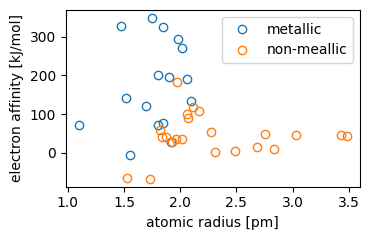
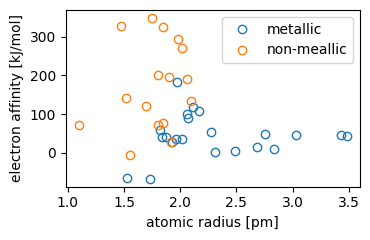
work on MDS-4

diff --git a/MDSdata/MDS4_chemical_elements/dataset.py b/MDSdata/MDS4_chemical_elements/dataset.py
@@ -3,108 +3,188 @@ import numpy as np
 import matplotlib.pyplot as plt
 import os
 from os.path import join
-
-# The absolute path is required when importing this package! Otherwise
-# a wrong relative path is resolved and reading a file from within this
-# script does not work properly. You can see this with
-# `print(os.path.dirname(os.path.abspath(__file__)))`
-p = join(os.path.dirname(os.path.abspath(__file__)), 'element_properties.csv')  
+from MDSdata._bunch import Bunch
 
 
 
+DESCR = """
+MDS-dataset 'MDS-4: Chemical Elements'
+--------------------------------------
 
+**Dataset Characteristics:**
+
+    :Number of Instances: 38 (22 metals and 16 non-metals)
+    :Number of Attributes: 4 numeric, predictive attributes and the class
+    :Attribute Information:
+        - atomic radius [pm]
+        - electron affinity [kJ/mol]
+        - ionization energy [kJ/mol]
+        - electronegativity [-]
+        - class:
+                - non-metalliv (target value = 0)
+                - metallic (target value = 1)
+
+    :Summary Statistics:
+
+    :Missing Attribute Values: None
+
+    :Class Distribution: 22 and 16 examples for 2 classes.
+
+    :Creator: The data file was extracted from the publication:
+        J. J. V. Ferreira, M. T. S. Pinheiro, W. R. S. dos Santos, and
+        R. da Silva Mai: "Graphical representation of chemical periodicity 
+        of main elements through boxplot", Educación Química (2016) 27, 
+        209---216, http://dx.doi.org/10.1016/j.eq.2016.04.007
+
+    :Donor:
+
+    :date May, 2023 
+
+    This dataset contains four periodic properties: atomic radius, electron 
+    affinity, ionization energy and the electronegativity. These properties 
+    were collected for a total of 38 chemical elements (22 metals and 16 
+    non-metals), originally taken from a number of different publicly 
+    available sources.
 """
-The data file was extracted from:
-=================================
-J. J. V. Ferreira, M. T. S. Pinheiro, W. R. S. dos Santos, R. da Silva Mai:
-"Graphical representation of chemical periodicity of main elements through boxplot",
-Educación Química (2016) 27, 209---216
-http://dx.doi.org/10.1016/j.eq.2016.04.007
-
-Description
-===========
-Tabular data for chosen properties of a number of metallic and non-metallic elements
 
 
-Usage:
-
-from MDSbook_utils.MDScode.Datasets.chemical_element_data import dataset
-
-df, features = dataset.pandas_data()
-print(features)
-display(df)
 
 
-X = dataset.numpy_data()
-
-"""
-
-def pandas_data():
-    """Returns a dataframe with the data    
-    """
-    df = pd.read_csv(p)
-    #df.columns = features
-    return df #, df.columns
 
 
-def numpy_data():
+
+
+class MDS4:
     """MDS-dataset 'MDS-4: Chemical Elements'.
     
-    Returns the input matrix X, output vector y and the class mapping
-    for chosen properties of a number of metallic and non-metallic elements.
-    The label y is 0 for non-metals and 1 for metals.
-
-    ### The data file was extracted from the publication:
-    J. J. V. Ferreira, M. T. S. Pinheiro, W. R. S. dos Santos, R. da Silva Mai:
-    "Graphical representation of chemical periodicity of main elements through boxplot",
-    Educación Química (2016) 27, 209---216, 
-    http://dx.doi.org/10.1016/j.eq.2016.04.007
-
-    """
-    df = pandas_data()
-    feature_names = np.array(['atomic_radius', 'electron_affinity', 'ionization energy', 'electronegativity'])
-    X = np.array(df[feature_names])
-    y = np.array(df[['metallic']], dtype=int).flatten()
-
-    return X, y, feature_names
+    The interface of the `data` method has been designed to conform closely
+    with the well-established interface of scikit-learn (see 
+    https://scikit-learn.org/stable/datasets.html). The only difference is
+    that the returned dictionary-like `Bunch` also contains `feature_matrix`,
+    which is an alias for scikit-learn's `data` array/dataframe.
+    """  
+        
+    # The absolute path is required when importing this package! Otherwise
+    # a wrong relative path is resolved and reading a file from within this
+    # script does not work properly. You can see this with
+    # `print(os.path.dirname(os.path.abspath(__file__)))`
+    p = join(os.path.dirname(os.path.abspath(__file__)), 'element_properties.csv')  
 
 
-def data(pandas=False):
-    """MDS-dataset 'MDS-4: Chemical Elements'.
-    
+    def __init__(self) -> None:
+        pass
 
-    Returns the features, labels and the class mapping
-    for chosen properties of a number of metallic and non-metallic elements.
+    @staticmethod
+    def load_data(return_X_y=False, as_frame=False):
+        """MDS-dataset 'MDS-4: Chemical Elements'.
 
-    :params pandas: whether to return numpy or pandas data
-        pandas=False: Returns input matrix X, output vector y and the class mapping
-        pandas=True: Returns DataFrame with data matrix and the column names
+        Chosen periodic properties of a number of metallic and non-metallic 
+        elements.
 
-    ### The data file was extracted from the publication:
-    J. J. V. Ferreira, M. T. S. Pinheiro, W. R. S. dos Santos, R. da Silva Mai:
-    "Graphical representation of chemical periodicity of main elements through boxplot",
-    Educación Química (2016) 27, 209---216, 
-    http://dx.doi.org/10.1016/j.eq.2016.04.007
+        =================   ==============
+        Classes                          2
+        Samples per class        22 metals
+                             16 non-metals
+        Records total                   38
+        Dimensionality                   4
+        Features                      real
+        =================   ==============
 
-    """    
-    if pandas:
-        return pandas_data()
-    else:
-        return numpy_data()
+        More details can be found in the MDS book and at https://MDS-book.org
+
+        The data file was extracted from the publication:
+        J. J. V. Ferreira, M. T. S. Pinheiro, W. R. S. dos Santos, and 
+        R. da Silva Mai: "Graphical representation of chemical periodicity of
+        main elements through boxplot", Educación Química (2016) 27, 209---216
+        http://dx.doi.org/10.1016/j.eq.2016.04.007
+
+        
+        Parameters
+        ----------
+        return_X_y : bool, default=False
+            If True, returns ``(feature_matrix, target)`` instead of a 
+            dictionary-like `Bunch` object (where items can be accessed
+            using "."): 
+            ``{feature_matrix, target, feature_names, taget_names, DESCR}``.
+
+        as_frame : bool, default=False
+            If True, the feature matrix is a pandas DataFrames, and the target
+            is a pandas DataFrame or Series depending on the number of target 
+            columns.
+
+
+        Returns
+        -------
+        data : Either the feature matrix and target vector (the set of (X, y)) 
+                or a "Bunch" (i.e., a dictionary where items can be accessed 
+                using a dot) with the following attributes:
+
+            feature_matrix : {ndarray, dataframe} of shape (38, 4)
+                The feature matrix. If `as_frame=True`, `data` will be returned
+                as a pandas DataFrame.
+            data : this is the same as `feature_matrix`. It is kept for 
+                compatibility with scikit-learn.
+            target: {ndarray, Series} of shape (38,)
+                The classification target. If `as_frame=True`, `target` will be
+                a pandas Series.
+            feature_names: list
+                The names of the features (columns of the feature_matrix).
+            target_names: list
+                The names of target classes.
+            frame: DataFrame of shape (38, 4)
+                Only present when `as_frame=True`. DataFrame with `feature_matrix` and
+                `target`.
+
+            DESCR: str
+                The full description of the dataset.
+        """
+
+        feature_names = np.array(['atomic_radius', 'electron_affinity', 'ionization energy', 'electronegativity'])
+        label_names = ['metallic', 'non-metallic']
+
+        df = pd.read_csv(MDS4.p)
+        X = np.array(df[feature_names])
+        y = np.array(df[['metallic']], dtype=int).flatten()
+
+        combined_frame = []
+
+        if as_frame:
+            X = pd.DataFrame(data=X, columns=feature_names)
+            y = pd.DataFrame(data=y, columns=['target'])
+            combined_frame = pd.concat([X, y], axis=1)
+
+        if return_X_y:
+            return X, y
+
+        return Bunch(
+            feature_matrix=X,
+            data=X,
+            target=y,
+            feature_names=feature_names, 
+            target_names=label_names, 
+            frame = combined_frame,
+            DESCR=DESCR,
+        )
+
+
+
+
 
 
 def main():
-    df = pandas_data()
-    # print(df)
 
-    X, Y, features_names = data()
+    data = MDS4.load_data()
+    X = data.feature_matrix
+    y = data.target
+    features_names = data.feature_names
+
     atomic_radius = X[:, features_names == 'atomic_radius']
     electron_affinity = X[:, features_names == 'electron_affinity']
-    print(Y)
+    print(atomic_radius)
 
-
+    
     fig, ax = plt.subplots(figsize=(3.8, 2.5))
-    mask = Y == 0
+    mask = y == 1
     ax.plot(atomic_radius[mask], electron_affinity[mask], c='C0', lw=0, marker='o',  mec='C0', mfc='none', label='metallic')
     ax.plot(atomic_radius[~mask], electron_affinity[~mask], c='C1', lw=0, marker='o', mec='C1', mfc='none', label='non-meallic')
     ax.set(xlabel='atomic radius [pm]', ylabel='electron affinity [kJ/mol]')

diff --git a/MDSdata/MDS5_Nanoindentation/dataset.py b/MDSdata/MDS5_Nanoindentation/dataset.py
@@ -8,8 +8,7 @@ from MDSdata._bunch import Bunch
 
 
 
-DESCR = \
-    """
+DESCR = """
 MDS-dataset MDS-5: Nanoindentation CuCr60 (hardness and modulus)
 ----------------------------------------------------------------
         
@@ -64,9 +63,9 @@ class MDS5:
     
     The interface of the `data` method has been designed to conform closely
     with the well-established interface of scikit-learn (see 
-    https://scikit-learn.org/stable/datasets.html). The main difference is
-    that when features and targets are returned as pandas DataFrame, they
-     are always returned as separate obejcts and never as combined DataFrame.
+    https://scikit-learn.org/stable/datasets.html). The only difference is
+    that the returned dictionary-like `Bunch` also contains `feature_matrix`,
+    which is an alias for scikit-learn's `data` array/dataframe.
     """  
         
     # The absolute path is required when importing this package! Otherwise
@@ -121,8 +120,8 @@ class MDS5:
             ``{data, target, taget_names, DESCR, feature_names}``. 
 
         as_frame : bool, default=False
-            If True, the data is a pandas DataFrames, and the target is a 
-            pandas DataFrame or Series depending on the number of target 
+            If True, the feature matrix is a pandas DataFrames, and the target
+            is a pandas DataFrame or Series depending on the number of target 
             columns.
 
         outlier: bool, default=False
@@ -134,18 +133,20 @@ class MDS5:
 
         Returns
         -------
-        data : Either a set of feature matrix and target vector or a 
-               Bunch (i.e., a dictionary that can be accessed using a dot)
-               with the following attributes:
+        data : Either the feature matrix and target vector (the set of (X, y)) 
+                or a "Bunch" (i.e., a dictionary where items can be accessed 
+                using a dot) with the following attributes:
 
-            data : {ndarray, dataframe} of shape (???, 2)
-                The data matrix. If `as_frame=True`, `data` will be a pandas
-                DataFrame.
+            feature_matrix : {ndarray, dataframe} of shape (???, 2)
+                The feature matrix. If `as_frame=True`, `data` will be returned
+                as a pandas DataFrame.
+            data : this is the same as `feature_matrix`. It is kept for 
+                compatibility with scikit-learn.
             target: {ndarray, Series} of shape (150,)
                 The classification target. If `as_frame=True`, `target` will be
                 a pandas Series.
             feature_names: list
-                The names of the dataset columns.
+                The names of the features (columns of the feature_matrix).
             target_names: list
                 The names of target classes.
             frame: DataFrame of shape (???, 3)
@@ -173,19 +174,24 @@ class MDS5:
         
         X = np.stack((modulus, hardness), axis=0).T
         y = np.array(class_id, dtype=int)
+        combined_frame = []
 
         if as_frame:
             X = pd.DataFrame(data=X, columns=_feature_names)
             y = pd.DataFrame(data=y, columns=['target'])
+            combined_frame = pd.concat([X, y], axis=1)
+
 
         if return_X_y:
             return X, y
 
         return Bunch(
-            data=X, 
+            feature_matrix=X,
+            data=X,
             target=y,
             feature_names=_feature_names, 
             target_names=label_names, 
+            frame = combined_frame,
             DESCR=DESCR,
         )
 
@@ -193,7 +199,7 @@ class MDS5:
 
 def main():
     dataset = MDS5.load_data()
-    X = dataset.data
+    X = dataset.feature_matrix
     y = dataset.target 
 
     print("The feature matrix has the shape:", X.shape)

diff --git a/examples/show_MDS5_nanoindentation.py b/examples/show_MDS5_nanoindentation.py
@@ -10,7 +10,7 @@ refer to the MDS-book.
 
 def main():
     CuCr = MDS5.load_data()
-    X = CuCr.data
+    X = CuCr.feature_matrix
     y = CuCr.target 
     print("The feature matrix has", X.shape[1], "features in columns:", CuCr.feature_names)
     print(" ... and", X.shape[0], "data records as rows of X.")
